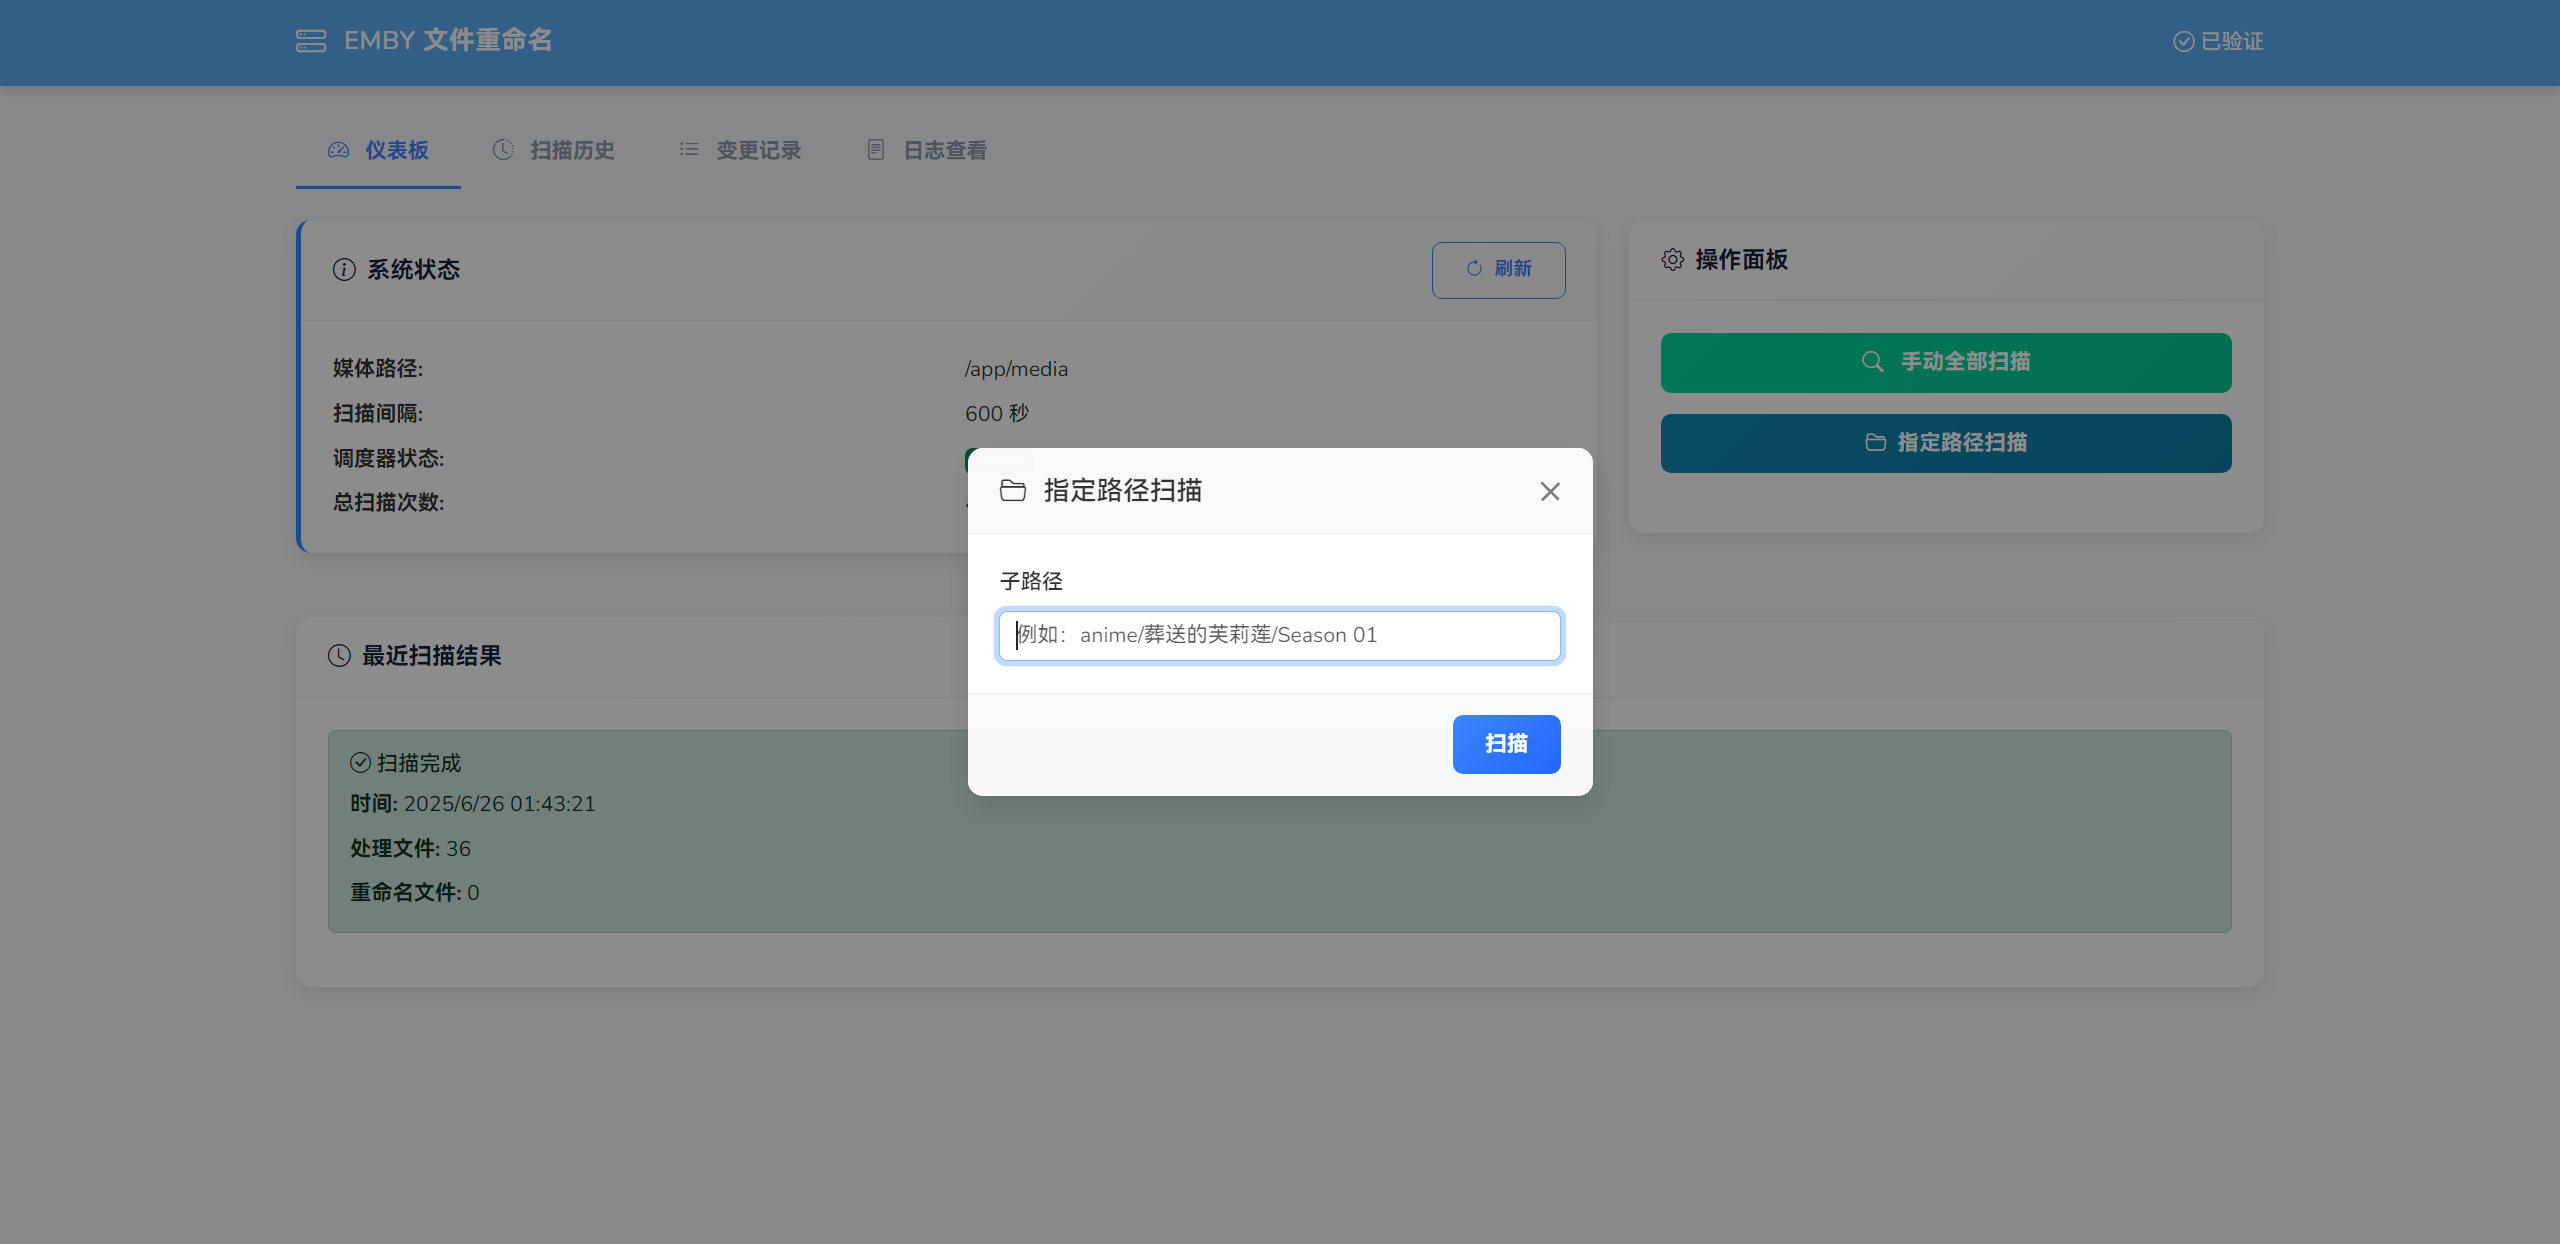
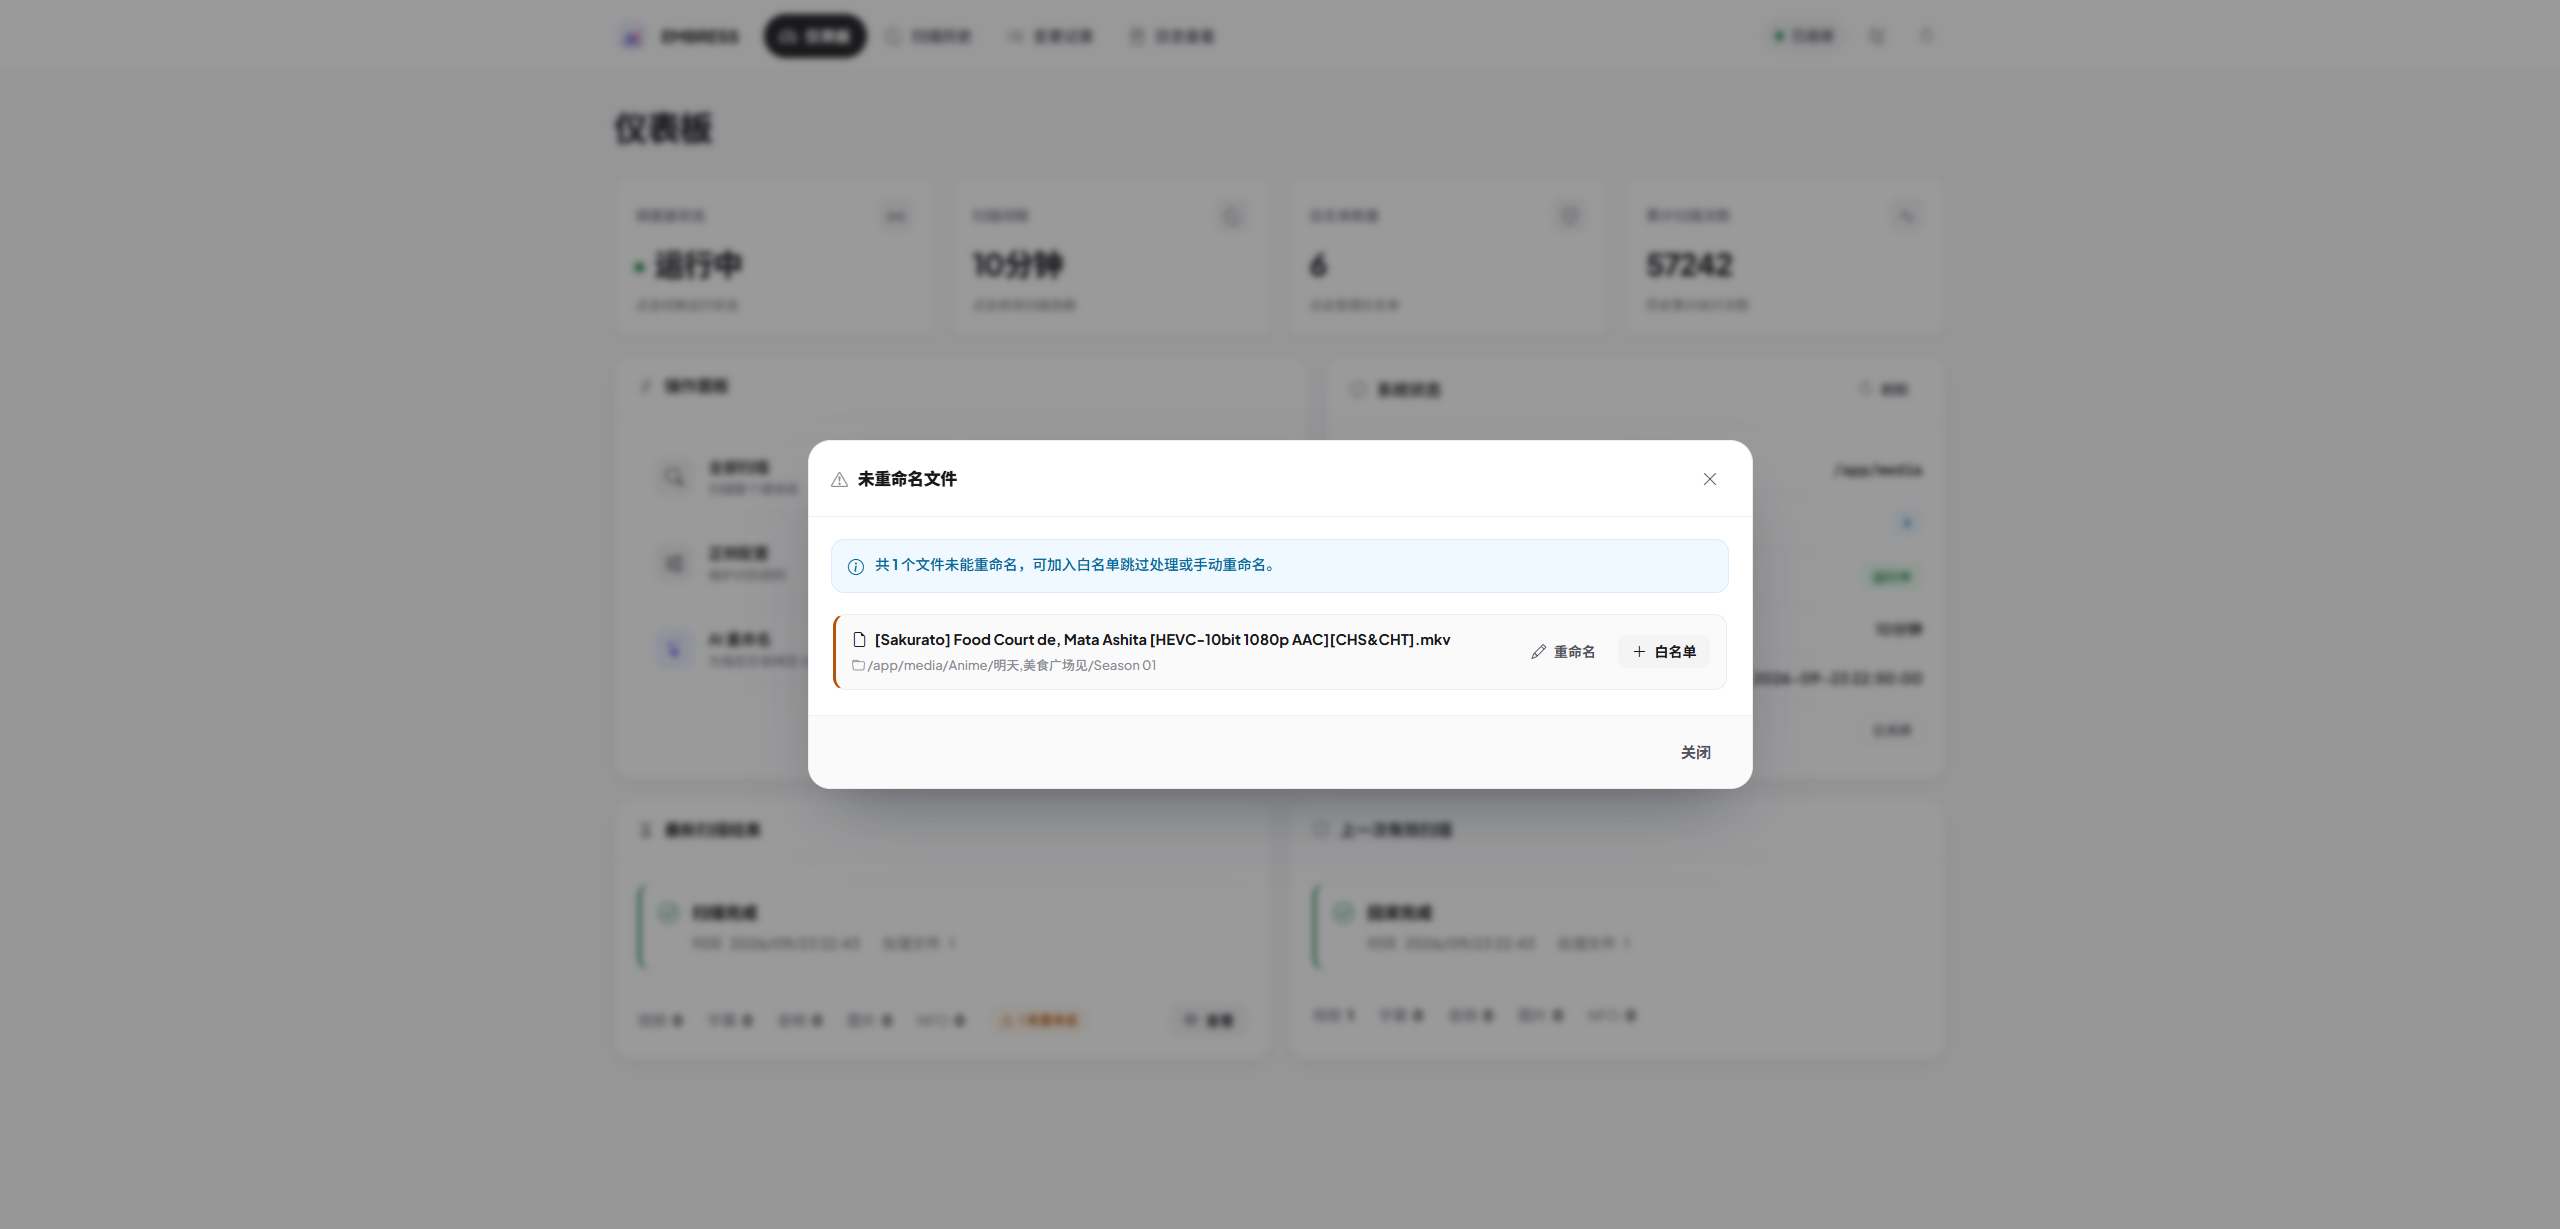
更新中英文 README 与截图；提示词支持英文/罗马音剧名识别中文译名

diff --git a/README_EN.md b/README_EN.md
@@ -14,13 +14,13 @@
 
 ---
 
-## 🔰 Overview
+## Overview
 
 **EMBRESS** is a fully automated file renaming tool designed for media libraries such as **Emby**, **Jellyfin**, or **Plex**, ensuring all file names conform to standardized naming conventions for proper scraping and metadata parsing.
 
 ---
 
-## 🎗 Usage Prerequisites
+## Usage Prerequisites
 
 - File Naming Convention
 Ensure your media library follows this structure: [**/data/anime/Series XX/Season 01/AnimeXX 01 [1920x1080].mkv**](https://emby.media/support/articles/TV-Naming.html)
@@ -31,57 +31,108 @@ Map your host's directory to the container, like:
 EMBRESS will automatically detect seasons via Season XX directory names
 
 
-## 🚀 Features
+## Features
 
 
-### 📁 Auto-Renaming
+### Auto-Renaming
 
-- Scheduled directory scanning
+- Scheduled directory scanning, seasons detected via Season XX directory names
 - Automatically apply regex rules for filename rewriting
+- Online regex debugger
 - Logging for scan and rename operations
-- Whitelist support
-- To be continued...
+- Whitelist support, matching files/directories are skipped
 
-### 📊 Web Dashboard
+### AI Renaming
 
-- System configuration overview
+For messy filenames that regex rules cannot cover, using an LLM (OpenAI-compatible API).
+
+How to use:
+
+1. Open "AI Providers", add a provider (name, model, Base URL, API Key), click "Test" to verify, and optionally "Set as default". API keys are stored encrypted
+2. Open "AI Rename", pick the provider, enter the directory to be handled by AI (relative to the media root, e.g. `Anime/Show`), and click "Bind"
+3. On the next manual or scheduled scan, files under bound directories are renamed by AI; results are listed in "Change Records"
+
+Effects:
+
+- Detects show name, season and episode, and outputs Emby-compliant names: `Show - SxxEyy - Episode Title.ext`
+- Reuses previous rename records of the same show as samples to keep naming consistent
+- Keeps quality, source and fansub tags from the original filename
+- Works with the regex flow: regex runs first, AI handles what is left; unrecognizable files are skipped instead of being mis-renamed
+- Multiple bindings supported (longest prefix wins); bindings can be enabled/disabled/removed anytime
+
+### Auto Organizing
+
+Automatically files scattered episodes into the standard `MediaType/Show/Season XX` structure, with no manual work.
+
+How to use:
+
+1. In the "AI Rename" window, enable the "Auto Organizing" switch, choose the model and set the interval (60-86400 seconds)
+2. Click "Run Now", or wait for the scheduled run. The "Pending Files" list previews what will be processed; "Re-evaluate" makes deferred files eligible again
+3. After a run, open the result dialog: "View Process" expands a timeline of AI reasoning and program steps; "Changes & Restore" allows one-click restore by show / season / single file
+
+Effects:
+
+- Creates `MediaType/Show/Season XX` directories and moves files in; subtitles, audio, images and NFO are moved together
+- English or romaji titles (e.g. `Food Court de, Mata Ashita`) are resolved to the official Chinese title
+- The AI only decides the target; directory creation, moving, renaming and cleanup are all done by the program
+- Files are never overwritten: an existing target is skipped
+- Unrecognizable files are retried automatically without wasting tokens; the cache is reset when the prompt or model changes
+- Results are recorded in "Change Records" with an "AI Organizing" tag, and marked "Restored" after a restore
+
+> Prompts live in separate files (`python/prompts/`); restart the container after editing.
+
+### Web Dashboard
+
+- System configuration overview, scan and organizing status
 - Manual or targeted scan triggering
+- Whitelist and regex rule configuration
+- Restore renamed files by path
 - Scan history records
-- Rename history tracking
+- Change records (with source tags for AI renaming / organizing, and restore status)
 - Log viewer
 
-### 🔐 Access Control
+### Access Control
 
 - Optional access key for UI protection
 
-### 📁 Project Structure
+## Project Structure
 
 ```
 embress
 ├── python
-│   │ 
-│   ├── app.py                      ➔ API server
-│   ├── embress_rename.py           ➔ rename logic
-│   ├── database.py                 ➔ database
+│   ├── app.py                      ➔ API server and web routes
+│   ├── embress_renamer.py          ➔ Scanning and regex-based renaming
+│   ├── ai_renamer.py               ➔ AI renaming and model providers
+│   ├── ai_organizer.py             ➔ Auto organizing and restore
+│   ├── prompt_loader.py            ➔ System prompt loader
+│   ├── prompts                     ➔ System prompts (separate files, customizable)
+│   │   ├── rename_system.txt       ➔ AI renaming prompt
+│   │   ├── organize_system.txt     ➔ Auto organizing prompt
+│   │   └── connectivity_probe.txt  ➔ Connectivity test prompt
+│   ├── database.py                 ➔ Database
+│   ├── crypto_utils.py             ➔ Encrypted API key storage
+│   ├── email_notifier.py           ➔ Email notifications
+│   ├── logging_utils.py            ➔ Logging setup
 │   ├── requirements.txt            ➔ Python dependencies
 │   ├── templates
 │   │   └── index.html              ➔ Dashboard UI
 │   └── static                      ➔ Static resources
-│        ├── css
-│        │   └── styles.css 
+│        ├── css                    ➔ Styles (app.css / theme.css)
+│        ├── img                    ➔ Icon assets
 │        └── js
-│            ├── main.js
-│            └── vue.js
-│     
-│     
+│            └── main.js            ➔ Frontend logic
+├── docs
+│   ├── imgs                        ➔ Project logo
+│   └── screenshots                 ➔ Screenshots
 ├── conf
-│   └── supervisord.conf            ➔ Supervisor config
+│   ├── supervisord.conf            ➔ Supervisor config
+│   └── regex_pattern.json          ➔ Default regex config
 ├── Dockerfile                      ➔ Docker build file
 └── docker-compose.yml              ➔ Compose file
   
 ```
 
-## 🐳 Deployment Guide
+## Deployment Guide
 
 ### Pull Docker Image
 
@@ -103,7 +154,8 @@ docker run -d \
   -e TZ=Asia/Shanghai \
   -e ACCESS_KEY=${ACCESS_KEY} \
   -e MEDIA_PATH=/app/media \
-  -e CONFIG_DB_PATH=/app/conf/config.db
+  -e CONFIG_DB_PATH=/app/conf/config.db \
+  -e DEFAULT_REGEX_PATH=/app/conf/regex_pattern.json \
   -e LOG_PATH=/app/python/logs \
   -e SCAN_INTERVAL=3600 \
   -e EMAIL_ENABLED=false \
@@ -112,6 +164,10 @@ docker run -d \
   -e EMAIL_USER=from@mail.com \
   -e EMAIL_PASSWORD=password \
   -e EMAIL_RECIPIENTS=to@mail.com \
+  -e AI_BASE_URL=https://api.openai.com/v1 \
+  -e AI_API_KEY=${AI_API_KEY} \
+  -e AI_MODEL=gpt-4o-mini \
+  -e AUTO_ORGANIZE_INTERVAL=3600 \
   meidlinger1024/embress:latest
 ```
 
@@ -132,6 +188,22 @@ CONFIG_DB_PATH: Database directory, (default: /app/conf/config.db)
 LOG_PATH: app-log directory, (default: /app/python/logs)
 
 EMAIL_ENABLED: Email notification, (default: false)
+
+AI_BASE_URL: AI endpoint (OpenAI-compatible), (default: https://api.openai.com/v1)
+
+AI_API_KEY: AI API key. It can also be added in the web UI under "AI Providers" (recommended, stored encrypted)
+
+AI_MODEL: Default model name, (default: gpt-4o-mini)
+
+AI_TIMEOUT: AI request timeout in seconds, (default: 60)
+
+AI_MAX_FILES: Max files sent to the AI per request, (default: 80)
+
+AUTO_ORGANIZE_INTERVAL: Default auto-organizing interval in seconds, (default: 3600)
+
+AUTO_ORGANIZE_TTL: How long (seconds) unrecognizable files stay deferred before being re-evaluated, (default: 86400)
+
+EMBRESS_SECRET_KEY / EMBRESS_KEY_PATH: Key used to encrypt stored API keys; persist the conf directory or set explicitly
 
 ### Run with Docker Compose
 ```
@@ -162,37 +234,71 @@ services:
       - EMAIL_USER=from@mail.com
       - EMAIL_PASSWORD=password
       - EMAIL_RECIPIENTS=to@mail.com
+      - AI_BASE_URL=https://api.openai.com/v1
+      - AI_API_KEY=AI_API_KEY
+      - AI_MODEL=gpt-4o-mini
+      - AUTO_ORGANIZE_INTERVAL=3600
 ```
 
-## 🧩 Screenshots
+## Screenshots
 
 <div align="center">
  <img src="./docs/screenshots/1.png"/>
-</div>
-<div align="center">
- <img src="./docs/screenshots/1.6.png"/>
-</div>
-<div align="center">
- <img src="./docs/screenshots/1.7.png"/>
-</div>
-<div align="center">
- <img src="./docs/screenshots/1.8.png"/>
-</div>
-<div align="center">
- <img src="./docs/screenshots/1.9.png"/>
+ <p>Dashboard</p>
 </div>
 <div align="center">
  <img src="./docs/screenshots/2.png"/>
+ <p>Unrenamed Files</p>
 </div>
 <div align="center">
  <img src="./docs/screenshots/3.png"/>
+ <p>Targeted Scan</p>
 </div>
 <div align="center">
  <img src="./docs/screenshots/4.png"/>
-</div>
-<div align="center">
- <img src="./docs/screenshots/4.1.png"/>
+ <p>Whitelist</p>
 </div>
 <div align="center">
  <img src="./docs/screenshots/5.png"/>
+ <p>Regex Rules</p>
+</div>
+<div align="center">
+ <img src="./docs/screenshots/6.png"/>
+ <p>Regex Debugger</p>
+</div>
+<div align="center">
+ <img src="./docs/screenshots/7.png"/>
+ <p>AI Providers</p>
+</div>
+<div align="center">
+ <img src="./docs/screenshots/8.png"/>
+ <p>Add Provider</p>
+</div>
+<div align="center">
+ <img src="./docs/screenshots/9.png"/>
+ <p>AI Rename</p>
+</div>
+<div align="center">
+ <img src="./docs/screenshots/10.png"/>
+ <p>Organize Timeline</p>
+</div>
+<div align="center">
+ <img src="./docs/screenshots/11.png"/>
+ <p>Scan History</p>
+</div>
+<div align="center">
+ <img src="./docs/screenshots/12.png"/>
+ <p>Change Records</p>
+</div>
+<div align="center">
+ <img src="./docs/screenshots/13.png"/>
+ <p>Organize Restore</p>
+</div>
+<div align="center">
+ <img src="./docs/screenshots/14.png"/>
+ <p>Rename Records</p>
+</div>
+<div align="center">
+ <img src="./docs/screenshots/15.png"/>
+ <p>Log Viewer</p>
 </div>
